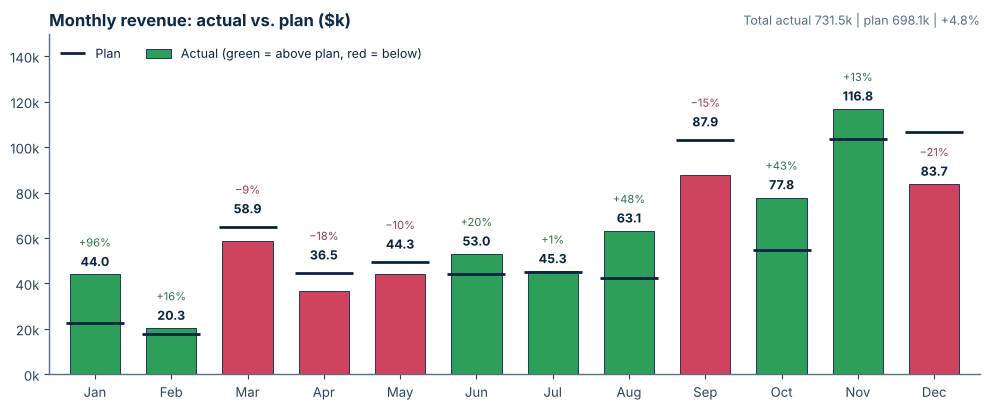
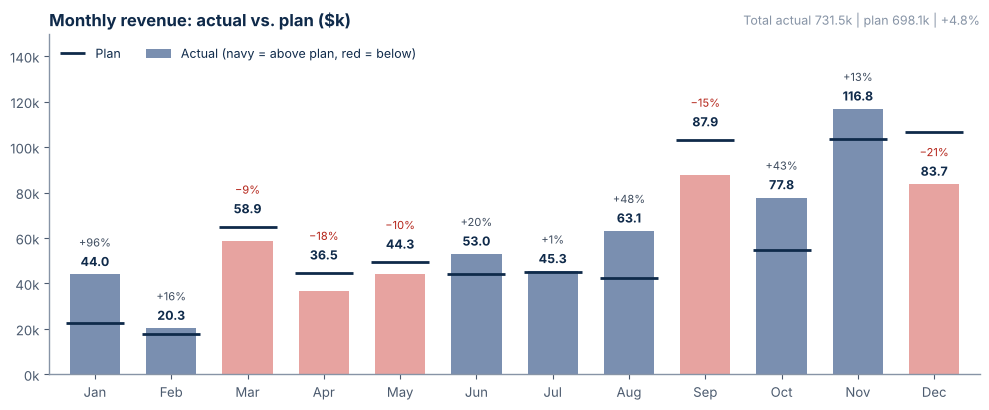
README: Diagramme und Tour-GIFs im neuen Navy-Design
Diagramm-Bilder mit docs/readme_bilder.py aus dem Code erzeugt,
Tour-GIFs (DE/EN) aus der laufenden App neu aufgenommen.

Claude-Session: https://claude.ai/code/session_0162dXhNYju1JhCPYcZMk4fs

diff --git a/docs/readme_bilder.py b/docs/readme_bilder.py
@@ -1,0 +1,39 @@
+"""Erzeugt die Diagramm-Bilder der README (docs/*_de.png, docs/*_en.png) mit den Farben der App.
+
+Aufruf:  python docs/readme_bilder.py
+"""
+import sys
+from pathlib import Path
+
+import matplotlib
+
+matplotlib.use("Agg")
+HIER = Path(__file__).resolve().parent
+sys.path.insert(0, str(HIER.parent))
+import diagramme as D  # noqa: E402
+import logik as L  # noqa: E402
+import sprache as S  # noqa: E402
+
+
+def main() -> None:
+    d = L.lade_daten()
+    s = L.stichtage(d)[-1]
+    for sp in S.SPRACHEN:
+        S.setze(sp)
+        T = S.T
+        bilder = {
+            "umsatz": D.monate_ist_plan(L.plan_ist_monate(d, s)),
+            "wasserfall": D.db_wasserfall(L.db_zerlegung(d, s)),
+            "liquiditaet": D.liquiditaet(L.liquiditaet_prognose(d, s), s),
+            "benchmark": D.benchmark_punkte(L.benchmark(d, s), "gesamt",
+                                            {m: f"Region {m}" for m in L.mandanten(d)},
+                                            T("Unicorn gesamt", "Unicorn total")),
+        }
+        for name, fig in bilder.items():
+            ziel = HIER / f"{name}_{sp}.png"
+            fig.savefig(ziel, dpi=100, facecolor="white")
+            print(ziel.name)
+
+
+if __name__ == "__main__":
+    main()
